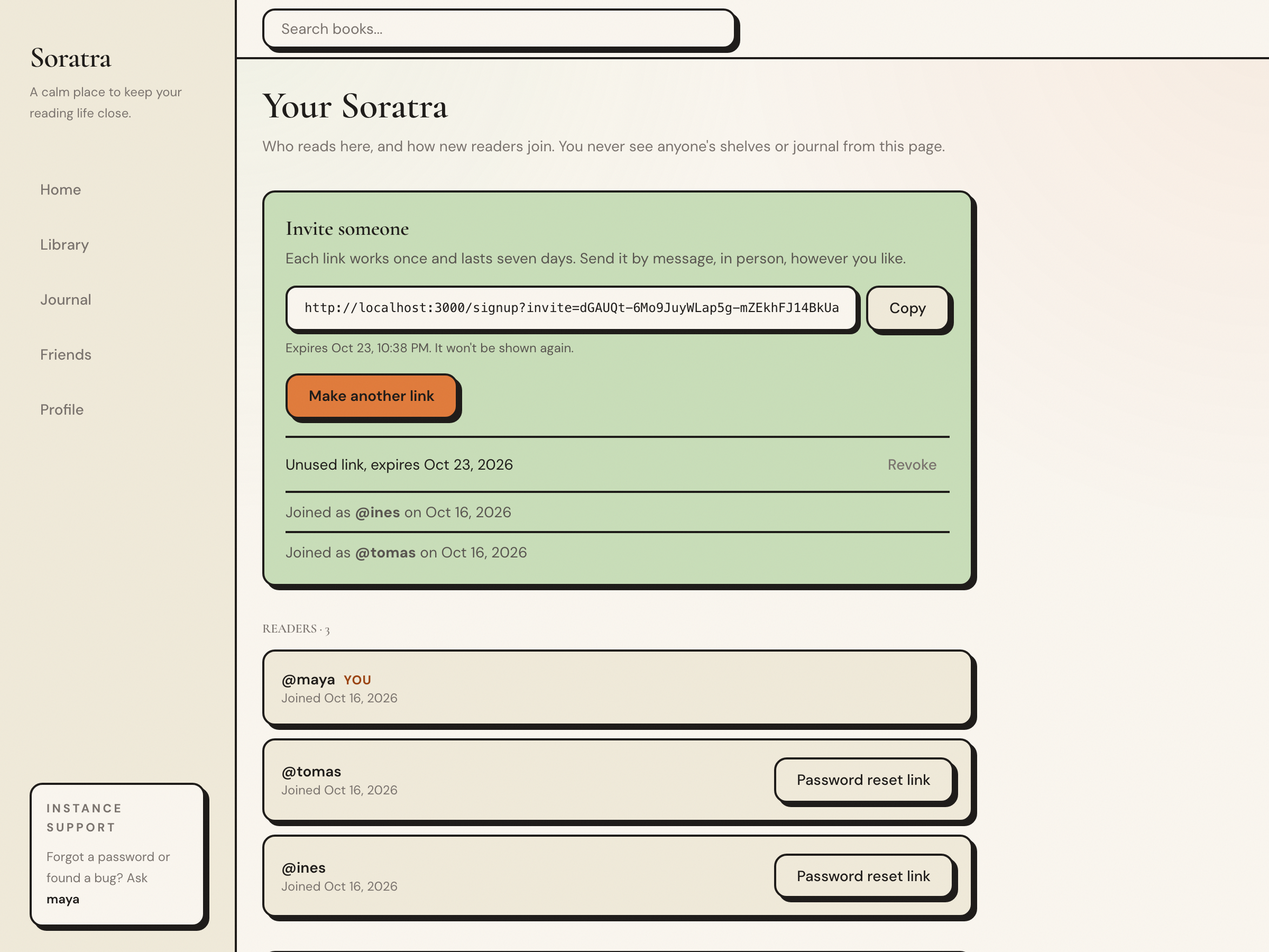
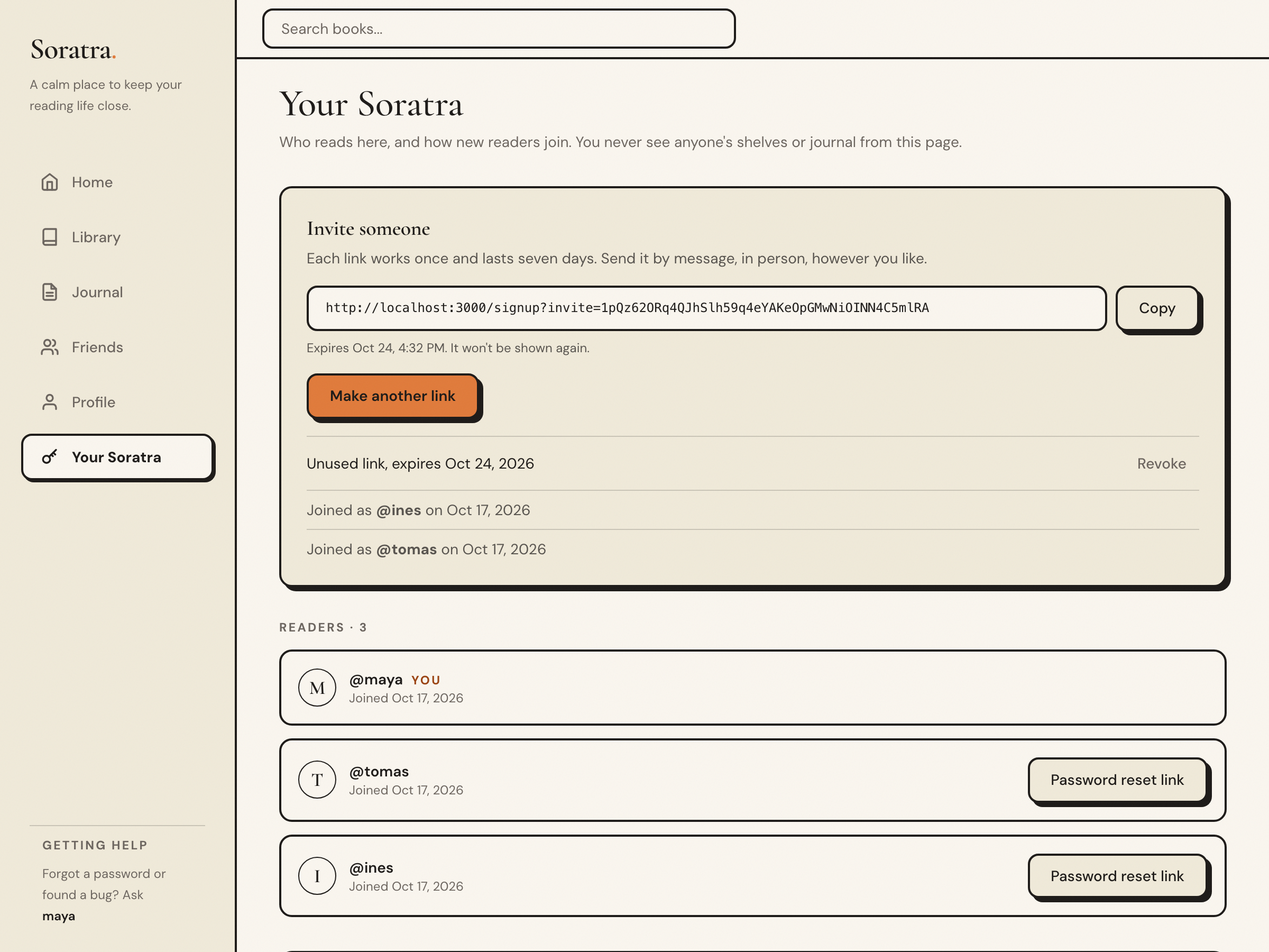
docs: retake README screenshots after the polish
- Retake the setup and admin screenshots against a fresh instance. The
  script now drops focus before the setup capture, so the last field does
  not show its focus ring.
- The setup footer points to Your Soratra, where the join setting now
  lives, instead of the profile.
- Update the e2e tests for the new names (Open Your Soratra, the sidebar
  item, flat reader rows) and for friend actions that now confirm in a
  toast. The non-admin test checks the new names, so it no longer passes
  by accident.

diff --git a/e2e/friendships.spec.ts b/e2e/friendships.spec.ts
@@ -18,12 +18,12 @@ test.describe('Friendships', () => {
       await firstPage.getByRole('button', { name: 'Find reader', exact: true }).click()
       await expect(firstPage.getByText(`@${secondReader.username}`, { exact: true })).toBeVisible()
       await firstPage.getByRole('button', { name: 'Connect', exact: true }).click()
-      await expect(firstPage.getByRole('status').filter({ hasText: 'Friend request sent.' })).toBeVisible()
+      await expect(firstPage.getByText('Friend request sent.', { exact: true })).toBeVisible()
 
       await secondPage.goto('/friends')
       await expect(secondPage.getByText(`@${firstReader.username}`, { exact: true })).toBeVisible()
       await secondPage.getByRole('button', { name: 'Accept', exact: true }).click()
-      await expect(secondPage.getByRole('status').filter({ hasText: 'You are now friends.' })).toBeVisible()
+      await expect(secondPage.getByText('You are now friends.', { exact: true })).toBeVisible()
 
       await firstPage.goto('/friends')
       await expect(firstPage.getByRole('link', { name: `@${secondReader.username}`, exact: true })).toBeVisible()
@@ -32,7 +32,7 @@ test.describe('Friendships', () => {
       const dialog = firstPage.getByRole('dialog')
       await expect(dialog).toBeVisible()
       await dialog.getByRole('button', { name: 'Remove', exact: true }).click()
-      await expect(firstPage.getByRole('status').filter({ hasText: 'Connection removed. Shared reading access has ended.' })).toBeVisible()
+      await expect(firstPage.getByText('Connection removed. Shared reading access has ended.', { exact: true })).toBeVisible()
 
       await secondPage.goto(`/profile/${firstReader.username}`)
       await expect(secondPage.getByRole('heading', { name: 'Private profile', exact: true })).toBeVisible()

diff --git a/e2e/admin.spec.ts b/e2e/admin.spec.ts
@@ -12,7 +12,8 @@ test('readers who are not the admin cannot open the admin page', async ({ page }
   await createReader(page)
   await page.goto('/admin')
   await expect(page).toHaveURL(/profile/)
-  await expect(page.getByRole('link', { name: 'Manage members' })).toHaveCount(0)
+  await expect(page.getByRole('link', { name: 'Open Your Soratra' })).toHaveCount(0)
+  await expect(page.getByRole('link', { name: 'Your Soratra', exact: true })).toHaveCount(0)
 })
 
 test('an invite link works once', async ({ browser }) => {
@@ -21,7 +22,7 @@ test('an invite link works once', async ({ browser }) => {
   const guest = await browser.newContext()
   try {
     await admin.page.goto('/profile')
-    await admin.page.getByRole('link', { name: 'Manage members' }).click()
+    await admin.page.getByRole('link', { name: 'Open Your Soratra' }).click()
     await admin.page.getByRole('button', { name: 'Make an invite link' }).click()
     const link = await admin.page.getByLabel('New invite link').inputValue()
     expect(link).toContain('/signup?invite=')
@@ -47,7 +48,7 @@ test('the admin can hand a reader a password reset link', async ({ browser }) =>
     const reader = await createReader(memberPage)
 
     await admin.page.goto('/admin')
-    const row = admin.page.locator('.brutalist-card', { hasText: `@${reader.username}` })
+    const row = admin.page.locator('.card-flat', { hasText: `@${reader.username}` })
     await row.getByRole('button', { name: 'Password reset link' }).click()
     await admin.page.getByRole('button', { name: 'Make link' }).click()
     const link = await admin.page.getByLabel(`Password reset link for ${reader.username}`).inputValue()

diff --git a/src/app/(auth)/setup/SetupForm.tsx b/src/app/(auth)/setup/SetupForm.tsx
@@ -111,7 +111,7 @@ export function SetupForm() {
           {loading ? 'Setting up...' : 'Start my journal'}
         </button>
       </form>
-      <p className="auth-footer">You can change all of this later from your profile.</p>
+      <p className="auth-footer">You can change who can join later, in Your Soratra.</p>
     </div>
   )
 }
